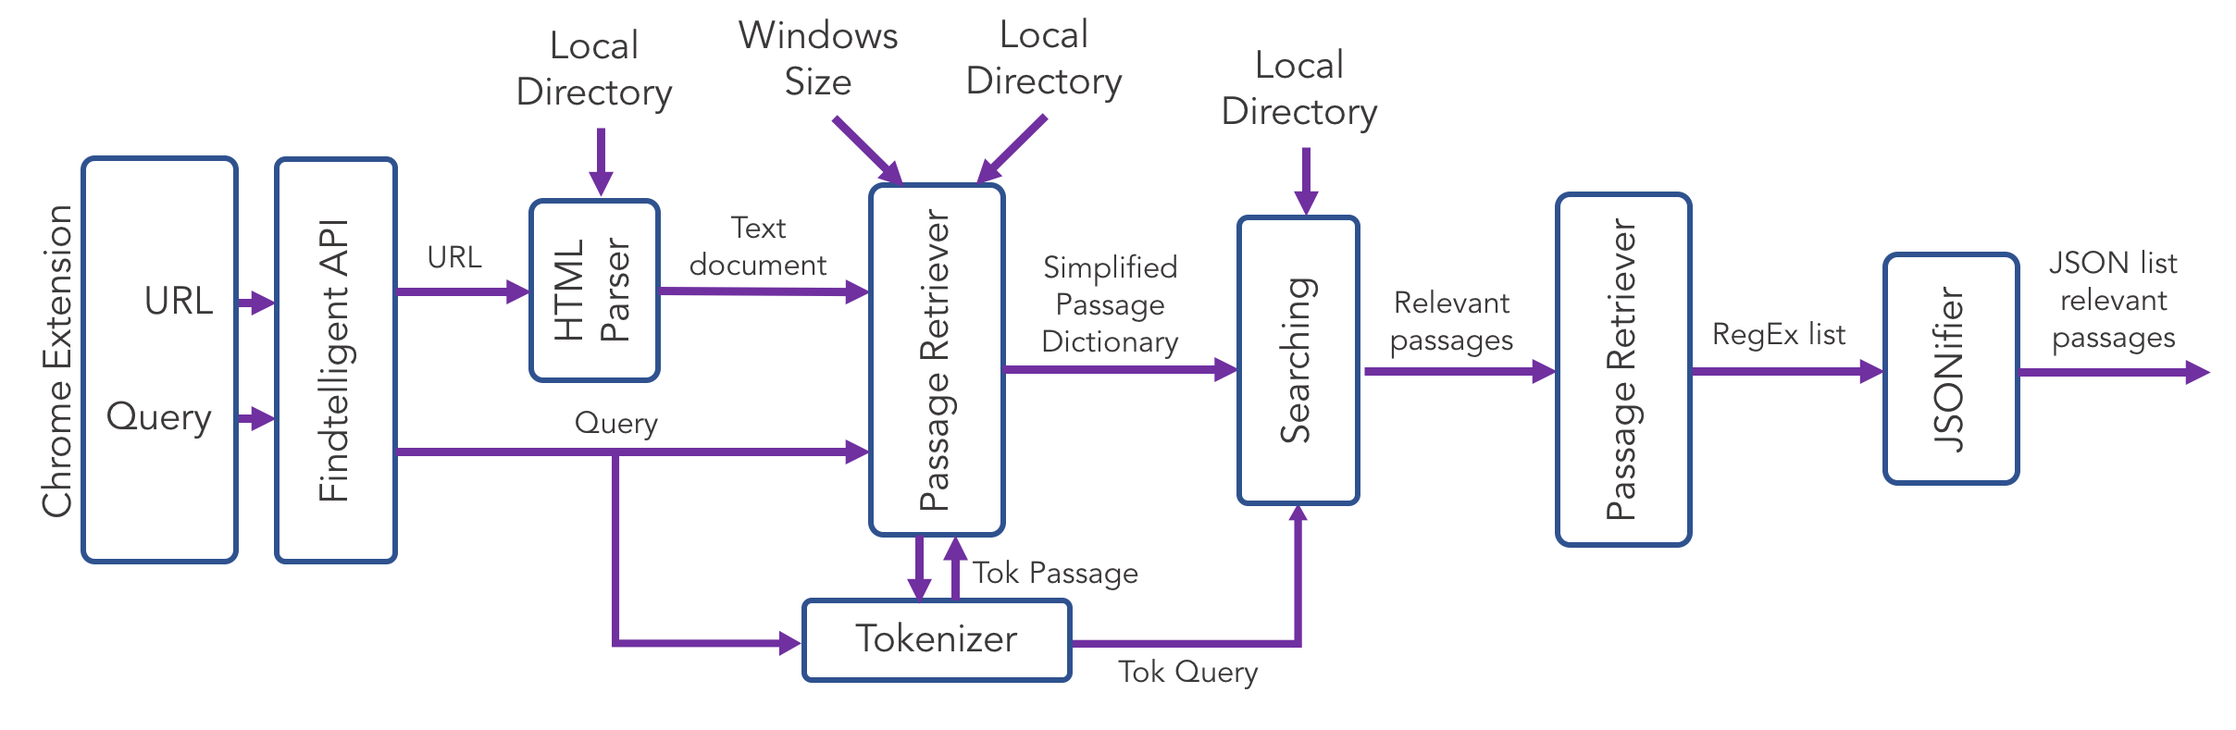
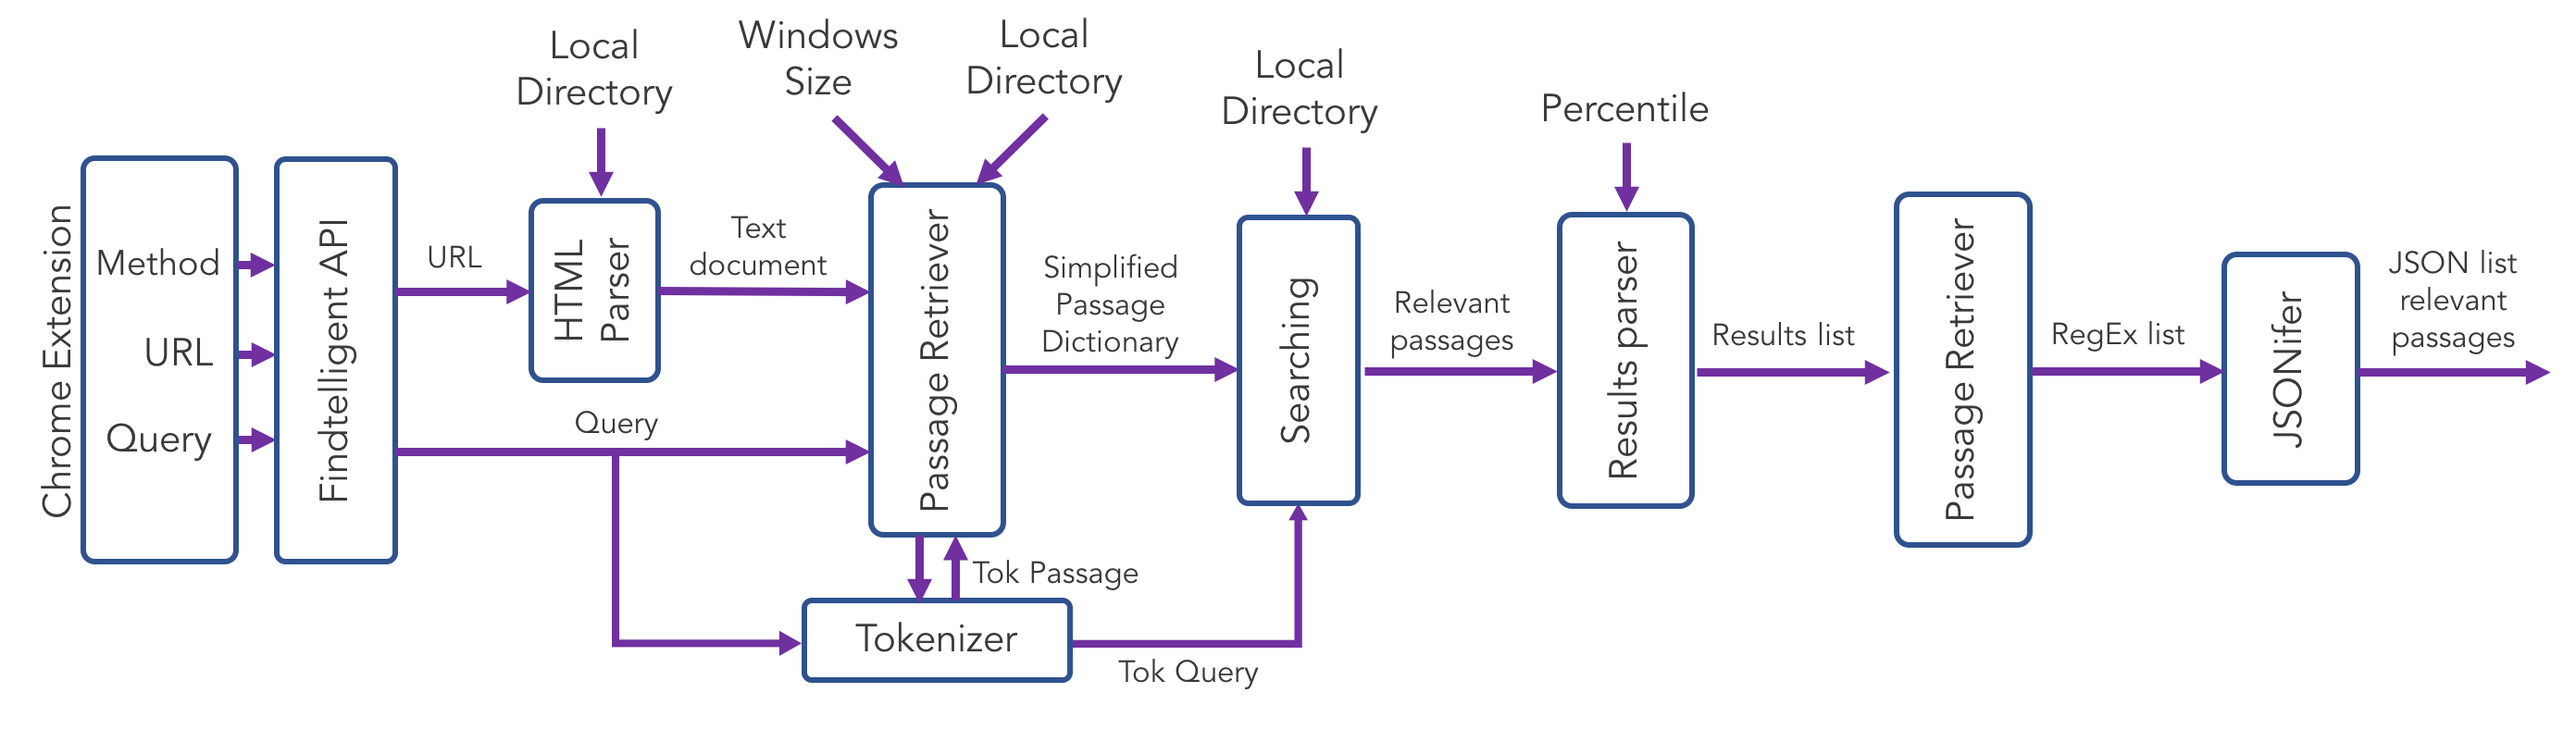
Add more information in README

diff --git a/README.md b/README.md
@@ -15,7 +15,7 @@ Why Findtelligent?
 
 Usually Ctrl + F is not enough when searching the web. It uses an exact match instead of a free open query. 
 
-Sometimes you are struggling with a huge HTML document such as a Wiki article, a User Guide, or even an e-book. With Findtelligent you can use a query instead of an exact match and get the passages that are more likely to contain the answer to your query.
+Sometimes you are struggling with a huge HTML document such as a Wiki article, a User Guide, or even an e-book. With Findtelligent you can use a query instead of an exact match and get the passages that more likely to contain the answer to your query.
 
 What is Findtelligent's architecture?
 -------------------------------------
@@ -26,10 +26,31 @@ So far, the only method implemented for passage retrieval is called Density Dist
 
 Kise, Junke, Dengel, and Matsumoto [1] proposed a method to retrieve the most important passages based on local maximums of a density distribution which makes use of a fixed size window and TF-IDF techniques. In this case, since there is no a whole collection of documents but just one big HTML, then IDF was substituted for a made up measurement called IPF (Inverse Passage Frequency).
 
-Below you can find a high-level block diagram of the structure of the software. It shows the /getbyurl API functionality which is the only one implemented so far. In the future a /getbyhtml should be included because some URLs are private and the API won't be able to retrieve the HTML in those case, so the HTML itself must be passed in the body of the request.
+Below you can find a high-level block diagram of the structure of the software. It shows the /getbyurl API functionality which is the only one implemented so far. In the future a /getbyhtml should be included because some URLs are private and the API won't be able to retrieve the HTML in those cases, so the HTML itself must be passed in the body of the request.
 
 ![alt text](https://github.com/fvargaspiedra/findtelligent/blob/master/docs/BlockDiagram.png "Block Diagram of Findtelligent API")
 
+The Chrome Extension communicates the query, the URL of the HTML, and the scoring method to the API. The Flask route gets the request and pass the information of the URL to an HTML parser which retrieves the HTML using Beautiful Soup and urllib and transforms it to a plain text document. This plain text document and the query are passed to a passage retriever module which divides it into smaller passages based on a window size.
+
+Both, the query and the passages created by the passage retriever go through a tokenizer module which removes stopwords and stemmize the words using NLTK. The passage retriever also generates a simplified version of the passages by getting rid of those passages that don´t include any query term. The idea is to save time.
+
+The simplified and tokenized passage list combined with the tokenized query go to a searching module which uses Whoosh library to index and score. The score function is a customized implementation that follows the algorithm proposed by Kise, Junke, Dengel, and Matsumoto [1].
+
+Once all the scores are ready then a results parser is used to decide which are the relevant passages. In the case of density distribution algorithm all the local maximums are candidates to be relevant passages. Only the X percentile values are taken into consideration. This is easily tweakable by using an input variable.
+
+Once the results list is ready (it's a list of passage IDs), the passasge retriever is used again to get all the relevant passages in a RegEx form. The RegEx form is ideal to highlight the passages in the original HTML without problem.
+
+Finally the data is parsed in JSON format to be delivered by the API. Following you can see the API request and the API response.
+
+Request:
+
+![alt text](https://github.com/fvargaspiedra/findtelligent/blob/master/docs/RequestAPI.png "Block Diagram of Findtelligent API")
+
+Response:
+
+![alt text](https://github.com/fvargaspiedra/findtelligent/blob/master/docs/ResponseAPI.png "Block Diagram of Findtelligent API")
+
+Notice the RegEx form on the response which is really useful to highlight the HTML using Mark.js library.
 
 References
 ----------
